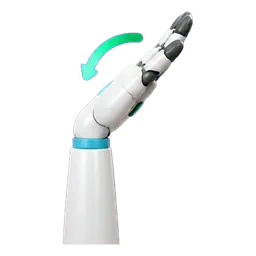
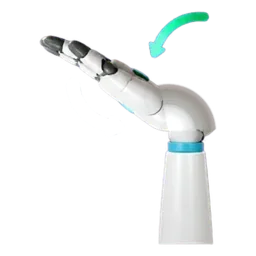
6.3.0 graphics: a CV audit of all 244 pictures and of how the app draws them
- «Разгибание» was generated as a flexion (the hand bent 40° towards the palm under the arrow of an extension):
  the hand is turned about the back corner of the wrist to 60° of extension, the joint filled by sweeping its edge,
  the arrow set above the joint; it is now the mirror pair of «Сгибание» (checked against tools/regen.py).
- «Отведение» was fitted to its canvas with a speck and stood 15 % right of «Приведение»: centred like the family.
- 7 dull specks the matte left near the wrists (hand-key, hand-pinch, hand-point, gesture-abduction): cleared.
- tools/art-fix.py finds all three (exit 1) and repairs them with --fix: re-encoded at the family's WebP quality,
  both manifests updated; a second run finds nothing.
- The layout linter gains the kind `picture`: stretched, cut by object-fit cover, drawn larger than its pixels,
  or not loaded. None in the app (backgrounds and covers may crop by design).

Changed region(s): [[0.1562, 0.0312, 0.8438, 0.9688]]

diff --git a/src/ui/art-manifest.js b/src/ui/art-manifest.js
@@ -245,7 +245,7 @@ export const ART = Object.freeze({
   'skin-neon': [256, 256, 1],
   'skin-sky': [256, 256, 1],
 });
-export const ART_BYTES = 4512738;
+export const ART_BYTES = 4511928;
 // What the Firebird wears, per picture: item → [centre x %, centre y %, width %, rotation°]. A missing item —
 // the pose covers its slot (the star above the head, the book on the chest) or the stage has not opened it.
 export const PET_LAYOUT = Object.freeze({

diff --git a/tools/art-fix.py b/tools/art-fix.py
@@ -1,0 +1,180 @@
+"""The pictures the CV audit of public/art found wrong (6.3.0, 08.11.2026), and their repair, measured, not drawn by hand.
+
+  python3 tools/art-fix.py          # list what is wrong; exit 1 if anything is
+  python3 tools/art-fix.py --fix    # repair it, re-encode at the family's WebP quality, update the manifests
+
+1. Specks: tiny parts cut off from the subject (a shadow or a background the matte left behind) that show as dark dots on
+   a light card. A part counts when it is small (≤ MAX_PX), far from the subject (≥ FAR of the picture's size) and dull:
+   dark (value < 0.2) or grey (saturation < 0.5 and value < 0.6). The sparks and embers of the Firebird and Mio are bright
+   and saturated, and they stay.
+2. Off centre: the pictures of the gestures are fitted to their canvas (the subject's box centred, 11 px from the edge)
+   and drawn centred on a card. «Отведение» was fitted with a speck at its left edge, so its hand stood 15 % to the right
+   of «Приведение».
+3. «Разгибание»: the generated picture bent the hand 40° towards the palm (a flexion) under the arrow of an extension;
+   tools/regen.py asked for «bent backwards … towards the back of the hand». The hand is turned about the back corner of
+   the wrist to 60° of extension, the joint is filled by sweeping the wrist's top edge through the turn, the arrow is
+   set above the joint, and the picture is fitted again. Only the generated file (its sha256) is changed, so a second
+   run finds nothing.
+Only the pixels of a repair change. Needs Pillow, numpy and opencv-python-headless.
+"""
+import hashlib, io, json, re, sys
+from pathlib import Path
+import numpy as np, cv2
+from PIL import Image
+
+ROOT = Path(__file__).resolve().parent.parent
+ART = ROOT / "public" / "art"
+MAX_PX, FAR = 120, 0.02
+MARGIN = 11  # the gesture pictures: the subject's box 11 px from the canvas edge
+# WebP quality of each family: tools/import-art.py ROLES, tools/import-generated.py QUALITY (hand-*) and 86 (hold-*)
+QUALITY = {"pet-": 80, "mio-": 82, "game-": 82, "nav-": 86, "ico-": 84, "ach-": 84, "gift-": 84, "obj-": 84,
+           "gesture-": 84, "skin-": 84, "empty-": 82, "hand-": 92, "hold-": 86}
+# «Разгибание» as generated, and the turn that makes it an extension: the back corner of the wrist (x, y), degrees
+# counter-clockwise, the arrow's shift (x, y); pixels of the 256 px picture
[1 lines of base64/hex data omitted]
+             "pivot": (73, 127), "turn": 100, "arrow": (-28, -30)}
+
+
+def specks(rgba: np.ndarray):
+    a = rgba[:, :, 3]
+    n, lab, st, _ = cv2.connectedComponentsWithStats((a > 40).astype(np.uint8), connectivity=8)
+    if n < 3:
+        return []
+    big = 1 + int(np.argmax(st[1:, cv2.CC_STAT_AREA]))
+    dist = cv2.distanceTransform(1 - (lab == big).astype(np.uint8), cv2.DIST_L2, 3)
+    out = []
+    for k in range(1, n):
+        if k == big or st[k, cv2.CC_STAT_AREA] > MAX_PX:
+            continue
+        m = lab == k
+        if dist[m].min() < FAR * max(a.shape):
+            continue
+        rgb = rgba[:, :, :3][m].astype(float)
+        hi, lo = rgb.max(1), rgb.min(1)
+        sat, val = float(((hi - lo) / np.maximum(hi, 1)).mean()), float(hi.mean()) / 255
+        if val < 0.2 or (sat < 0.5 and val < 0.6):
+            out.append((m, int(st[k, 0]), int(st[k, 1]), int(st[k, cv2.CC_STAT_AREA])))
+    return out
+
+
+def clear_specks(rgba, sp):
+    clear = np.zeros(rgba.shape[:2], np.uint8)
+    for m, *_ in sp:
+        clear |= m.astype(np.uint8)
+    out = rgba.copy()
+    out[:, :, 3][cv2.dilate(clear, np.ones((3, 3), np.uint8)).astype(bool)] = 0
+    return out
+
+
+def off_centre(name, rgba):
+    """Whole pixels to move a gesture picture by so its subject's box is centred; 0 when it is (or another family)."""
+    if not name.startswith("gesture-"):
+        return 0
+    xs = np.nonzero((rgba[:, :, 3] > 127).any(0))[0]
+    d = round(rgba.shape[1] / 2 - (xs.min() + xs.max() + 1) / 2)
+    return d if abs(d) > 3 else 0
+
+
+def shift(rgba, d):
+    out = np.zeros_like(rgba)
+    if d < 0:
+        out[:, :d] = rgba[:, -d:]
+    else:
+        out[:, d:] = rgba[:, :-d]
+    return out
+
+
+def premul(rgba):
+    x = rgba.astype(np.float32)
+    x[..., :3] *= x[..., 3:4] / 255
+    return x
+
+
+def over(dst, src):
+    return src + dst * (1 - src[..., 3:4] / 255)
+
+
+def repose_extension(rgba):
+    """«Разгибание» bent back: the hand turned about the back corner of the wrist, the joint swept, the picture refitted."""
+    K, P, n = 4, 120, rgba.shape[0]  # work at 4×, on a canvas 120 px wider on every side
+    big = np.array(Image.fromarray(rgba, "RGBA").resize((n * K, n * K), Image.LANCZOS))
+    c = np.zeros((big.shape[0] + 2 * P * K, big.shape[1] + 2 * P * K, 4), np.uint8)
+    c[P * K:-P * K, P * K:-P * K] = big
+    pm, (H, W) = premul(c), c.shape[:2]
+    _, lab, st, _ = cv2.connectedComponentsWithStats((c[..., 3] > 40).astype(np.uint8), connectivity=8)
+    main = 1 + int(np.argmax(st[1:, cv2.CC_STAT_AREA]))
+    arrow = cv2.dilate(((lab > 0) & (lab != main)).astype(np.uint8), np.ones((9, 9), np.uint8)).astype(bool)
+    px, py = ((P + v) * K for v in EXTENSION["pivot"])
+    rows = np.arange(H)[:, None]
+    hand = (rows < py) & ~arrow
+
+    def turn(layer, t):
+        m = cv2.getRotationMatrix2D((px, py), float(t), 1.0)
+        return np.clip(cv2.warpAffine(layer, m, (W, H), flags=cv2.INTER_CUBIC), 0, 255)
+
+    edge = pm * (hand & (rows >= py - 3 * K))[..., None]
+    joint = np.zeros_like(pm)
+    for t in range(EXTENSION["turn"] + 1):
+        joint = np.maximum(joint, turn(edge, t))
+    body = over(over(pm * ((rows >= py) & ~arrow)[..., None], joint), turn(pm * hand[..., None], EXTENSION["turn"]))
+    dx, dy = (v * K for v in EXTENSION["arrow"])
+    moved = cv2.warpAffine(pm * arrow[..., None], np.float32([[1, 0, dx], [0, 1, dy]]), (W, H), flags=cv2.INTER_LINEAR)
+    full = over(body, moved)
+    ys, xs = np.nonzero(full[..., 3] > 8)
+    x0, x1, y0, y1 = xs.min(), xs.max() + 1, ys.min(), ys.max() + 1
+    s = min((n - 2 * MARGIN) * K / (x1 - x0), (n - 2 * MARGIN) * K / (y1 - y0))
+    fit = np.float32([[s, 0, n * K / 2 - s * (x0 + x1) / 2], [0, s, n * K / 2 - s * (y0 + y1) / 2]])
+    full = cv2.resize(np.clip(cv2.warpAffine(full, fit, (n * K, n * K), flags=cv2.INTER_LINEAR), 0, 255), (n, n),
+                      interpolation=cv2.INTER_AREA)
+    al = full[..., 3:4]
+    rgb = np.where(al > 0.5, full[..., :3] * 255 / np.maximum(al, 1e-3), 0)
+    return np.clip(np.dstack([rgb, al]), 0, 255).round().astype(np.uint8)
+
+
+def main():
+    fix = "--fix" in sys.argv
+    manifest_path = ART / "manifest.json"
+    manifest = json.loads(manifest_path.read_text("utf8"))
+    found = changed = 0
+    for f in sorted(ART.glob("*.webp")):
+        img = Image.open(f)
+        if img.mode != "RGBA":
+            continue
+        rgba, notes = np.array(img), []
+        sp = specks(rgba)
+        if sp:
+            notes.append(", ".join(f"speck {px} px at ({x}, {y})" for _, x, y, px in sp))
+            rgba = clear_specks(rgba, sp)
+        d = off_centre(f.stem, rgba)
+        if d:
+            notes.append(f"{abs(d)} px off centre")
+            rgba = shift(rgba, d)
+        if f.stem == "gesture-extension" and hashlib.sha256(f.read_bytes()).hexdigest() == EXTENSION["sha256"]:
+            notes.append("the hand bent towards the palm under the arrow of an extension")
+            rgba = repose_extension(rgba)
+        if not notes:
+            continue
+        found += len(notes)
+        print(f"{f.stem}: " + "; ".join(notes))
+        if not fix:
+            continue
+        q = next(v for k, v in QUALITY.items() if f.stem.startswith(k))
+        buf = io.BytesIO()
+        Image.fromarray(rgba, "RGBA").save(buf, "WEBP", quality=q, method=6, alpha_quality=90)
+        data = buf.getvalue()
+        f.write_bytes(data)
+        item = manifest["items"][f.stem]
+        item["bytes"], item["sha256"] = len(data), hashlib.sha256(data).hexdigest()
+        changed += 1
+    if changed:
+        manifest["total_bytes"] = sum(v["bytes"] for v in manifest["items"].values())
+        manifest_path.write_text(json.dumps(manifest, ensure_ascii=False, indent=1) + "\n", "utf8")
+        js = ROOT / "src" / "ui" / "art-manifest.js"
+        js.write_text(re.sub(r"export const ART_BYTES = \d+;", f"export const ART_BYTES = {manifest['total_bytes']};",
+                             js.read_text("utf8")), "utf8")
+    print(f"{found} finding(s){f', {changed} picture(s) repaired' if changed else ''}")
+    sys.exit(1 if found and not fix else 0)
+
+
+if __name__ == "__main__":
+    main()

diff --git a/docs/AUDIT.md b/docs/AUDIT.md
@@ -1397,6 +1397,7 @@
 | H8 | ревьюер кода | `da62d56`: новая `replaySection` встала между JSDoc «Как прошла Мастерская» и её функцией — описание повисло на чужой функции. Комментарий эмулятора называл длинные интервалы 100–160 мс и на 10 Гц (там 1,4–2 периода) | Порядок восстановлен, комментарий уточнён |
 | H10 | протезист, ревью кода | На потоке СПППР у кисти оставались нижние пороги скорости каналов (0,25 сжатия, 0,3 отпускания): когда связь замолкала, команда «сжать» с угасающей уверенностью продолжала набирать силу — +0,18 за 1,5 с тишины, раздавленное яйцо от потерянного сигнала; угасающее раскрытие отпускало предмет до нуля | На потоке порогов нет: скорость гаснет вместе с уверенностью, кисть останавливается и держит. Тест падал на прежнем коде (`tests/v630.test.mjs`) |
 | H11 | ревью кода | Признак пика: медиана трёх кадров через сортировку копии массива — ≈ 2,5 КБ мусора на кадр живого датчика; предикат набора считался на каждом кадре и был записан трижды; совет об отдыхе считался и для демо; заметка о 10 минутах смотрела только последний раунд блока; комментарий «Созвездия» обещал потолок скорости, которого нет; фикстура раскладки несла старое поле `simultaneous` | Медиана без выделений памяти, `STREAM_SET` — один раз при загрузке, демо без совета, заметка — по активным секундам блока, комментарий и фикстура исправлены |
+| H12 | художник, CV | Владелец: «многие изображения кривые». CV-аудит 244 картинок (края, ореолы, островки, масштаб и смещение в семействах, рамки, дубликаты) и просмотр подозрительных: 7 осколков тени и фона — у среза запястья `hand-key`, `hand-pinch`, `hand-point` и слева от кисти `gesture-abduction`; на светлой карточке это тёмные точки. «Отведение» вписано в холст с осколком — стоит на 15 % правее «Приведения». «Разгибание» (сверено с заданием `tools/regen.py`): кисть согнута на 40° к ладони — это сгибание под стрелкой разгибания | `tools/art-fix.py --fix`: осколки убраны; «Отведение» отцентровано; кисть «Разгибания» повёрнута вокруг тыльного края запястья до 60° разгибания (сустав заполнен разворотом его края, стрелка над суставом) — зеркальная пара «Сгибания»; перекодированы с качеством семейства, проверка без `--fix` даёт 0. В показе (линтер раскладки, вид `picture`): нет растянутых, обрезанных `object-fit`, увеличенных сверх своих пикселей и незагруженных. Дыры в `hold-*-obj` — по замыслу (предмет кладётся поверх тонированной кисти), пронация и супинация различаются верно |
 | H9 | ворота | `da62d56` изменил `src/` после штампа доказательств: ворота предупреждали «axe и раскладка сняты на другом коде», APK 5108 КБ против записанных 5105 | Доказательства сняты заново на коде 6.3.0 |
 
 **Проверено и в порядке.** Рефакторинг владельца (`SIDE_NAME`, `hiDpiCanvas`, оболочки карточек итогов, среднее интервала эмулятора) — без изменений поведения. Пауза потери сигнала 6.2.1, схема упражнения у «Созвездия», каталог Motorica Start — тесты и e2e зелёные. Перенос навыка на протез по-прежнему не обещаем.

diff --git a/README.md b/README.md
@@ -14,7 +14,7 @@
 
 **Что нового**
 
-- **6.3.0 — ответы экспертов 07.11.** Вероятность СПППР — сходство с паттерном, а не сила: на потоке сила хвата и высота «Полёта» набираются временем удержания жеста, скорость растёт с чёткостью до потолка, и коадаптация не сдвигает цели. «Созвездие» идёт по одному движению — сложных жестов СПППР не распознаёт. «2 жеста + нейтраль» — те же семь ключей с нулями. Эмулятор по умолчанию шлёт номинальные 10 Гц. Игра замечает, когда пик сигнала в повторной игре падает на четверть, и советует отдохнуть и проверить чувствительность.
+- **6.3.0 — ответы экспертов 07.11.** Вероятность СПППР — сходство с паттерном, а не сила: на потоке сила хвата и высота «Полёта» набираются временем удержания жеста, скорость растёт с чёткостью до потолка, и коадаптация не сдвигает цели. «Созвездие» идёт по одному движению — сложных жестов СПППР не распознаёт. «2 жеста + нейтраль» — те же семь ключей с нулями. Эмулятор по умолчанию шлёт номинальные 10 Гц. Игра замечает, когда пик сигнала в повторной игре падает на четверть, и советует отдохнуть и проверить чувствительность. CV-аудит графики: «Разгибание» было нарисовано как сгибание, теперь кисть отогнута назад; «Отведение» отцентровано, осколки фона убраны (`tools/art-fix.py`).
 - **6.2.1 — аудит 06.11: ответ № 25 на потоке СПППР, «Созвездие» в любой схеме, каталог игр Motorica Start.** Пауза «Сигнал потерян» приходит через 1,5 с без данных у обоих потоков — у потока СПППР она приходила через 2,8 с, вне «1–2 с» ответа организаторов. «Созвездие», открытое хостом или ссылкой в схеме каналов, теперь идёт в схеме жестов: раньше искра стояла. С 05.11 Motorica Start берёт игры из своего каталога — готовая запись «Синергии» в его схеме лежит в `docs/embed/motorica-start-catalog.json` и сверяется со сборками.
 - **6.2 — поток 10 Гц, «Созвездие» и скринкаст.** Организаторы назвали частоту своего СПППР — 10 Гц. Эмулятор её умеет, а «Ритм» судит удар по часам микроконтроллера, одинаково на 10 и 50 Гц. Новая игра «Созвездие» ведёт искру джойстиком СПППР. Игра понимает две амплитуды и два порога в одном сообщении, ставит упражнение на паузу при долгой потере сигнала и сообщает приложению протеза изменённые пороги. Скринкаст собирается одной командой `npm run screencast`.
 - **6.1 — ответы организаторов 04.11.** Второй словарь СПППР «2 жеста + нейтраль»: все игры проходятся на обоих (`npm run test:tz`). Игра считает команды каналов A и B и следит, чтобы один не перевешивал другой вдвое; тест нашёл такой перекос в «Сейфе» (89 % A) и «Полёте» (65 % A), оба исправлены. С живой ЭМГ мультитача нет: площадки видны только лаборатории, которая их читает. Запуск передаёт руку и пороги протеза, результат возвращает пороги упражнения.

diff --git a/CHANGELOG.md b/CHANGELOG.md
@@ -12,6 +12,7 @@
 - **Документы.** Ответы 07.11 с местом в игре — `docs/TASK.md`; матрица ТЗ — карта пяти навыков ТЗ (ответ № 11), настройка порогов в игре (№ 10), роутинг подтверждён (№ 16) — `docs/TZ_COMPLIANCE.md`; `docs/INTEGRATION.md`, `LIMITS.md`, `PLAN.md`, `MEMORY.md`, `docs/GAME_RULES.md` (новые константы).
 - **Аудит (§59).** CI на GitHub с 06.11 не получает раннеров — решает владелец (оплата Actions или публичный репозиторий); локально тот же набор шагов зелёный. JSDoc «Мастерской» вернулся к своей функции, устаревшие числа 10 Гц в `docs/TASK.md` исправлены.
 - **Аудит своих изменений.** На потоке СПППР у кисти оставались нижние пороги скорости каналов: при замолчавшей связи угасающее «сжать» продолжало набирать силу (+0,18 за 1,5 с), угасающее раскрытие отпускало предмет. Теперь кисть по мере угасания останавливается и держит. Признак пика — только у «Мастерской», «Полёта» и «Ритма» и через 5+ минут: раунды одного блока и случайные коды «Сейфа» давали бы ложную тревогу. Медиана пика без выделений памяти на кадр, предикат набора считается один раз.
+- **Графика: CV-аудит всех 244 картинок и того, как приложение их рисует** (`tools/art-fix.py`; в линтере раскладки новый вид находок `picture`). Компьютерное зрение проверило обрезанные края, ореолы ключевого цвета, отделённые «островки», смещение и масштаб внутри семейств, полосы-рамки и почти-дубликаты; подозрительные картинки просмотрены на контактных листах, картинки жестов сверены с заданиями генерации (`tools/regen.py`). Найдено и исправлено: (1) 7 тёмных и серых осколков от вырезки фона — у среза запястья `hand-key`, `hand-pinch`, `hand-point` и слева от кисти `gesture-abduction` — убраны; (2) «Отведение» было вписано в холст вместе с осколком и стояло на 15 % правее «Приведения» — отцентровано, как остальные жесты; (3) **«Разгибание»**: генератор согнул кисть на 40° к ладони, то есть нарисовал сгибание, а стрелку оставил от разгибания. Кисть повёрнута вокруг тыльного края запястья до 60° разгибания, сустав заполнен разворотом его края, стрелка поставлена над суставом — теперь «Разгибание» зеркальная пара «Сгибания». Картинки перекодированы с качеством своего семейства, манифест обновлён; повторная проверка даёт 0 находок. В приложении ни одна картинка не растянута, не обрезана `object-fit` и не увеличена сверх своих пикселей; фон главного экрана и обложки обрезаются и мягчеют по замыслу. Остальное тоже замысел: дыры в вырезках `hold-*-obj` (там, где предмет закрывают пальцы), стрелки жестов, искры Жар-птицы, звуковые дуги значков.
 - Версия 6.3.0, versionCode и сборка iPhone 50.
 
 ## 6.2.1 — 06.11.2026 (аудит 06.11, вечер: ответ № 25 на потоке СПППР, «Созвездие» в любой схеме, каталог игр Motorica Start)

diff --git a/docs/ART.md b/docs/ART.md
@@ -75,6 +75,7 @@
 3. Открыть `../art-qa/*.jpg`. Там каждая картинка показана на тёмном и мятном фоне, а `outfits.jpg` показывает птицу в нарядах. Если поменялась картинка птицы, сверить глаза в таблице `EYES` инструмента.
 4. Сгенерированные картинки 5.32 (кисти, комнаты, корзина, планер): `python tools/import-generated.py --hands ЛИСТ.png --flip rest --hanging ЛИСТ.png --day ДЕНЬ.png --night НОЧЬ.png --workshop-day … --workshop-night … --basket … --glider …` (любая часть отдельно). Инструмент печатает, где свет ладони, манжета, кончики пальцев и световые кромки. Эти доли — константы `BIONIC`, `ROOM`, `WORKSHOP` в `src/render/bionic.js`.
 4а. Цельные картинки вместо коллажей (29.10): листы из ChatGPT по `docs/REGEN.md` — в одну папку под именами листов, затем `python tools/regen.py --import ПАПКА` (`--flip имя` — ячейка левой рукой, `--centre имя=x,y` — центр предмета). Эталоны для ChatGPT — `python tools/regen.py --refs ПАПКА`.
+4б. Проверка зрением (6.3.0): `python3 tools/art-fix.py` ищет то, что CV-аудит 08.11 нашёл в сгенерированных картинках: тёмные осколки вырезки фона, картинку жеста не по центру холста и «Разгибание», согнутое к ладони. При находках инструмент выходит с кодом 1; ключ `--fix` исправляет картинки, перекодирует их с качеством семьи и обновляет оба каталога. Как картинки нарисованы в приложении (растянута, обрезана `object-fit`, увеличена сверх своих пикселей, не загрузилась), проверяет линтер раскладки (`npm run audit:layout`, вид `picture`). Новую картинку жеста сверяйте с заданием в `tools/regen.py`: генератор может нарисовать позу наоборот, а стрелку верно.
 5. `npm test`. Тесты `tests/v516.test.mjs` сверяют каталог с файлами (размер из заголовка WebP, байты, SHA-256), бюджеты, «у каждой сущности есть картинка», «нет неиспользуемых картинок», рамки вещей и позы.
 
 ## Бюджет
